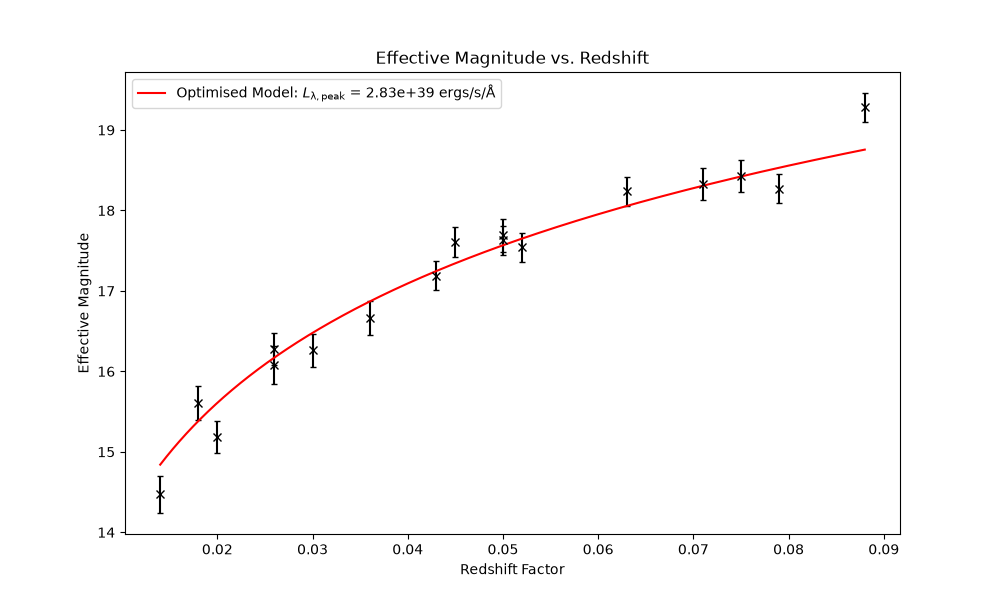
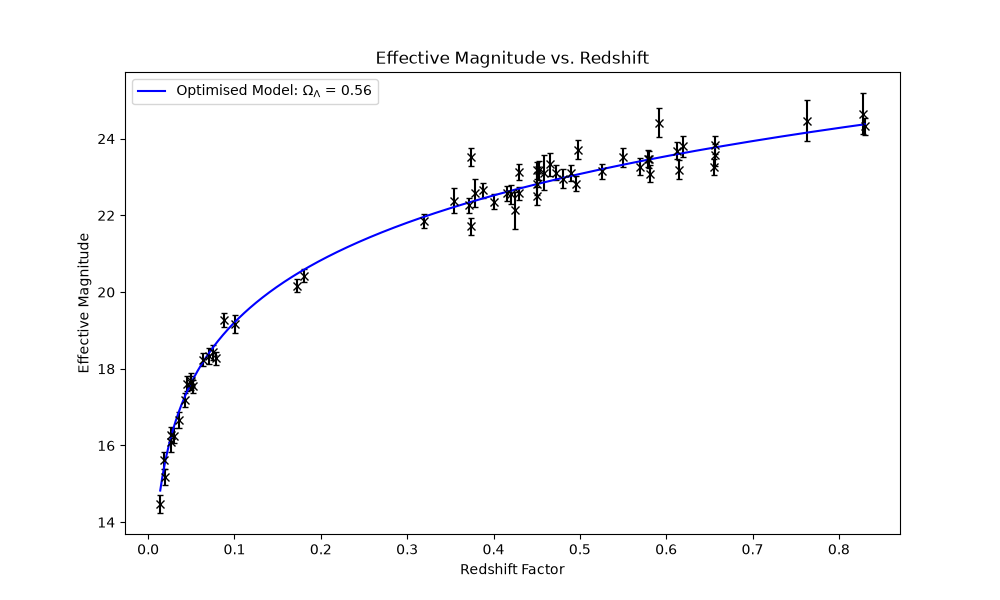
Correct magnitude calculation; add chi-squared sampling for Omega_Lambda
Also changed chi-squared and display functions. Now Omega_Lambda is much better but I think L_lambda_peak is wrong

diff --git a/milestone_project.py b/milestone_project.py
@@ -11,7 +11,7 @@ from collections.abc import Callable
 # constants
 FILE_NAME = "sn_data.txt"
 H0 = 75  # km/s/Mpc
-SPEED_OF_LIGHT = 3e10  # cm/s
+SPEED_OF_LIGHT = 2.99792458e10  # cm/s
 KM_PER_MPC = 3.0857e19  # km/Mpc
 H0_HZ = H0 / KM_PER_MPC  # Hz
 SMALL_Z_THRESHOLD = 0.1  # threshold for small redshift approximation
@@ -76,7 +76,7 @@ def small_z_model_function(redshifts: np.ndarray, L_lambda_peak: float) -> np.nd
     """
     distances = calculate_distance_small_z(redshifts)  # cm
     fluxes = L_lambda_peak / (4 * np.pi * distances ** 2)
-    m_effectives = -2.5 * np.log10((1 + redshifts) * fluxes / F_LAMBDA_0)
+    m_effectives = -2.5 * np.log10(fluxes / F_LAMBDA_0)
     return m_effectives
 
 def all_z_model_function(redshifts: np.ndarray, omega_Lambda: float, L_lambda_peak: float) -> np.ndarray:
@@ -89,24 +89,27 @@ def all_z_model_function(redshifts: np.ndarray, omega_Lambda: float, L_lambda_pe
     """
     distances = calculate_distance(redshifts, omega_Lambda=omega_Lambda)  # cm
     fluxes = L_lambda_peak / (4 * np.pi * distances ** 2 * (1+redshifts)**2)
-    m_effectives = -2.5 * np.log10((1 + redshifts) * fluxes / F_LAMBDA_0)
+    m_effectives = -2.5 * np.log10(fluxes / F_LAMBDA_0)
     return m_effectives
 
 # function to calculate chi-squared value
-def small_z_return_chi_squared(redshifts: np.ndarray, m_effectives: np.ndarray, errs: np.ndarray, L_lambda_peak: float) -> float:
+def small_z_return_chi_squared(redshifts: np.ndarray, m_effectives: np.ndarray, errs: np.ndarray, L_lambda_peak: float) -> tuple[float, float]:
     """Calculate chi-squared value for fit from :func:`small_z_model_function`.
     
     :param redshifts: redshifts.
     :param m_effectives: effective magnitudes.
     :param errs: errors in effective magnitudes.
     :param L_lambda_peak: The peak luminosity per unit wavelength.
-    :returns: chi-squared value.
+    :returns: tuple of [chi-squared value, reduced chi-squared value].
     """
     residuals = m_effectives - small_z_model_function(redshifts, L_lambda_peak)
     chi_squared = np.sum((residuals / errs) ** 2)
-    return chi_squared
+    degrees_of_freedom = len(redshifts) - 1  # one parameter fitted
+    reduced_chi_squared = chi_squared / degrees_of_freedom
+    return chi_squared, reduced_chi_squared
 
-def all_z_return_chi_squared(redshifts: np.ndarray, m_effectives: np.ndarray, errs: np.ndarray, omega_Lambda: float, L_lambda_peak: float) -> float:
+def all_z_return_chi_squared(redshifts: np.ndarray, m_effectives: np.ndarray, errs: np.ndarray, omega_Lambda: float, 
+                             L_lambda_peak: float) -> tuple[float, float]:
     """Calculate chi-squared value for fit from :func:`all_z_model_function`.
     
     :param redshifts: redshifts.
@@ -114,34 +117,31 @@ def all_z_return_chi_squared(redshifts: np.ndarray, m_effectives: np.ndarray, er
     :param errs: errors in effective magnitudes.
     :param omega_Lambda: The density parameter for dark energy.
     :param L_lambda_peak: The peak luminosity per unit wavelength.
-    :returns: chi-squared value.
+    :returns: tuple of [chi-squared value, reduced chi-squared value].
     """
     residuals = m_effectives - all_z_model_function(redshifts, omega_Lambda, L_lambda_peak)
     chi_squared = np.sum((residuals / errs) ** 2)
-    return chi_squared
+    degrees_of_freedom = len(redshifts) - 2  # two parameters fitted
+    reduced_chi_squared = chi_squared / degrees_of_freedom
+    return chi_squared, reduced_chi_squared
 
-def display_result(x_values: np.ndarray, popt: np.ndarray, result: float, error: float, chi_squared: float, unit: str, result_name: str) -> float:
-    """Display the result of the optimisation and calculate the reduced chi-squared value.
+def display_result(result: float, error: float, chi_squared: float, reduced_chi_squared: float, unit: str, result_name: str) -> None:
+    """Display the result of the optimisation and chi-squared values.
     
-    :param x_values: The x-values for the fit.
-    :param popt: Optimised parameters from curve fitting.
     :param result: The optimised result.
     :param error: The error in the optimised result.
     :param chi_squared: The chi-squared value.
+    :param reduced_chi_squared: The reduced chi-squared value.
     :param unit: The unit of the result.
     :param result_name: The name of the result.
-    :returns: The reduced chi-squared value.
     """
-    degrees_of_freedom = len(x_values) - len(popt)
-    reduced_chi_squared = chi_squared / degrees_of_freedom
 
     print(f"Optimised {result_name}: {result:.4e} ± {error:.4e} {unit}")
     print(f"Chi-squared: {chi_squared}")
     print(f"Reduced Chi-squared: {reduced_chi_squared}")
     
-    return reduced_chi_squared
 
-def plot_small_z_model(redshifts: np.ndarray, m_effectives: np.ndarray, errs: np.ndarray, L_lambda_peak: float, funct: Callable) -> None:
+def plot_small_z_model(redshifts: np.ndarray, m_effectives: np.ndarray, errs: np.ndarray, L_lambda_peak: float, funct: Callable, file_name: str) -> None:
     """Plot the optimised model from :func:`small_z_model_function` against the data for small redshifts.
     
     :param redshifts: redshifts.
@@ -165,11 +165,11 @@ def plot_small_z_model(redshifts: np.ndarray, m_effectives: np.ndarray, errs: np
     plt.ylabel("Effective Magnitude")
     plt.xlabel("Redshift Factor")
     plt.title("Effective Magnitude vs. Redshift")
-    plt.savefig("m_against_z.png")
+    plt.savefig(file_name)
     plt.show()
 
 def plot_all_z_model(redshifts: np.ndarray, m_effectives: np.ndarray, errs: np.ndarray, omega_Lambda: float, 
-                     L_lambda_peak: float, funct: Callable) -> None:
+                     L_lambda_peak: float, funct: Callable, file_name: str) -> None:
     """Plot the optimised model from :func:`all_z_model_function` against the data for all redshifts.
 
     :param redshifts: redshifts.
@@ -194,16 +194,21 @@ def plot_all_z_model(redshifts: np.ndarray, m_effectives: np.ndarray, errs: np.n
     plt.ylabel("Effective Magnitude")
     plt.xlabel("Redshift Factor")
     plt.title("Effective Magnitude vs. Redshift")
-    plt.savefig("m_against_z_full.png")
+    plt.savefig(file_name)
     plt.show()
-    pass  # Placeholder for future implementation of plotting for all redshifts
+
+
 
 def main()-> None:
     """Main function to read data, find optimised L_lambda_peak and omega_Lambda, and plot the results."""
+
+    # read and initialise data
     redshifts, m_effectives, errs = read_data(FILE_NAME)  # all unitless
     small_z = redshifts < SMALL_Z_THRESHOLD
     redshifts_small, m_effectives_small, errs_small = redshifts[small_z], m_effectives[small_z], errs[small_z]
 
+
+    # optimise L_lambda_peak using small redshifts
     bounds = (1e30, np.inf)  # ensure parameters are positive
     initial_guess = [3e40]  # initial guess for L_lambda_peak
     popt, cov = optimize.curve_fit(small_z_model_function, redshifts_small, m_effectives_small, sigma=errs_small, p0=initial_guess, bounds=bounds)
@@ -212,11 +217,12 @@ def main()-> None:
     L_lambda_peak = popt[0]  # ergs/s/Å
     err_L_lambda_peak = np.sqrt(np.diag(cov))[0]  # ergs/s/Å
 
-    chi_squared = small_z_return_chi_squared(redshifts_small, m_effectives_small, errs_small, popt[0])
-    display_result(redshifts_small, popt, L_lambda_peak, err_L_lambda_peak, chi_squared, "ergs/s/Å", "L_λ_peak")
+    chi_squared, reduced_chi_squared = small_z_return_chi_squared(redshifts_small, m_effectives_small, errs_small, popt[0])
+    display_result(L_lambda_peak, err_L_lambda_peak, chi_squared, reduced_chi_squared, "ergs/s/Å", "L_λ_peak")
 
-    plot_small_z_model(redshifts_small, m_effectives_small, errs_small, popt[0], funct=small_z_model_function)
+    plot_small_z_model(redshifts_small, m_effectives_small, errs_small, popt[0], funct=small_z_model_function, file_name="m_against_z_small.png")
 
+    # optimise omega_Lambda using all redshifts (method 1)
     bounds = (0, 1)  # ensure omega_Lambda is between 0 and 1
     initial_guess = [0.5]  # initial guess for omega_Lambda
     popt, cov = optimize.curve_fit(lambda redshifts, omega_Lambda: all_z_model_function(redshifts, omega_Lambda, L_lambda_peak), redshifts, 
@@ -225,11 +231,25 @@ def main()-> None:
     omega_Lambda = popt[0]  # no units
     err_omega_Lambda = np.sqrt(np.diag(cov))[0]  # no units
 
-    chi_squared = all_z_return_chi_squared(redshifts, m_effectives, errs, popt[0], L_lambda_peak)
-    display_result(redshifts, popt, omega_Lambda, err_omega_Lambda, chi_squared, "(no units)", "Omega_Lambda")
+    chi_squared, reduced_chi_squared = all_z_return_chi_squared(redshifts, m_effectives, errs, popt[0], L_lambda_peak)
+    display_result(omega_Lambda, err_omega_Lambda, chi_squared, reduced_chi_squared, "(no units)", "Omega_Lambda")
 
-    plot_all_z_model(redshifts, m_effectives, errs, popt[0], L_lambda_peak, funct=all_z_model_function)
-    
+    plot_all_z_model(redshifts, m_effectives, errs, popt[0], L_lambda_peak, funct=all_z_model_function, file_name="m_against_z.png")
+
+    # sampling chi-squared
+    omega_Lambda_samples = np.linspace(0, 1, 100)
+    reduced_chi_squared_samples = []
+    for omega in omega_Lambda_samples:
+        _, reduced_chi_squared = all_z_return_chi_squared(redshifts, m_effectives, errs, omega, L_lambda_peak=L_lambda_peak+err_L_lambda_peak)
+        reduced_chi_squared_samples.append(reduced_chi_squared)
+    plt.figure(figsize=(10, 6))
+    plt.plot(omega_Lambda_samples, reduced_chi_squared_samples, color='g')
+    plt.xlabel("Omega_Lambda")
+    plt.ylabel("Reduced Chi-squared")
+    plt.title("Reduced Chi-squared vs. Omega_Lambda")
+    plt.savefig("reduced_chi_squared_vs_omega_lambda.png")
+    plt.show()
+    print(f"Minimum Reduced Chi-squared: {min(reduced_chi_squared_samples)} at Omega_Lambda = {omega_Lambda_samples[np.argmin(reduced_chi_squared_samples)]}")
 
 if __name__ == "__main__":
     main()
